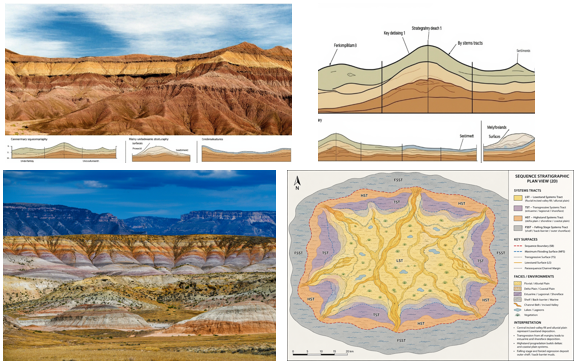
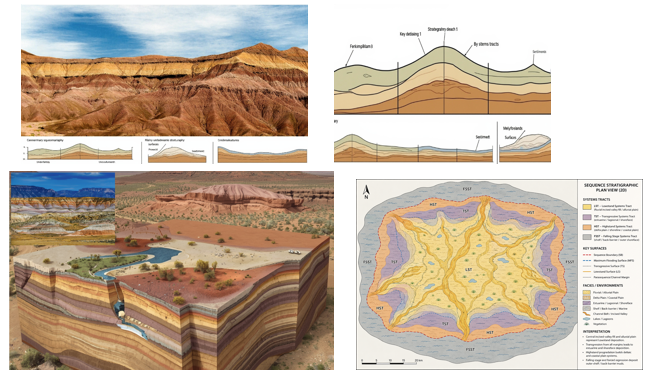
Update Geoscience depositional map showcase image.
Refresh showcase-depositional-map-upload.png from latest user edit and bump cache version.

diff --git a/index.html b/index.html
@@ -174,9 +174,9 @@
           </article>
 
           <article class="geoscience-card geoscience-card--depositional">
-            <a class="geoscience-card__media" href="assets/images/showcase-depositional-map-upload.png?v=5" target="_blank" rel="noopener noreferrer">
+            <a class="geoscience-card__media" href="assets/images/showcase-depositional-map-upload.png?v=6" target="_blank" rel="noopener noreferrer">
               <img
-                src="assets/images/showcase-depositional-map-upload.png?v=5"
+                src="assets/images/showcase-depositional-map-upload.png?v=6"
                 alt="Depositional environment maps and 3D fence diagram — energy/facies distribution, faults, and delta–lake facies legend"
                 width="640"
                 height="480"
